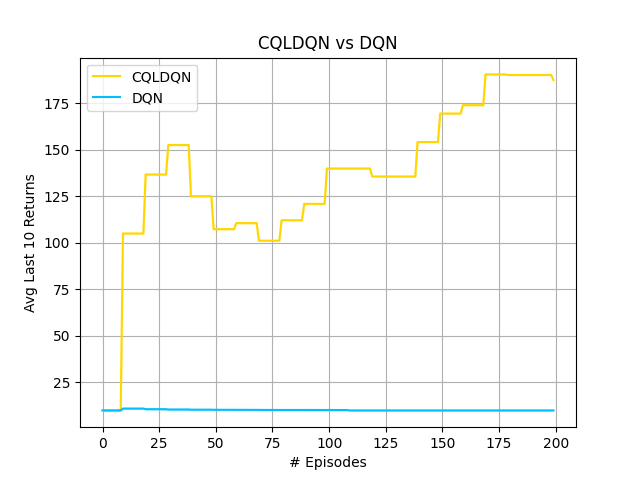
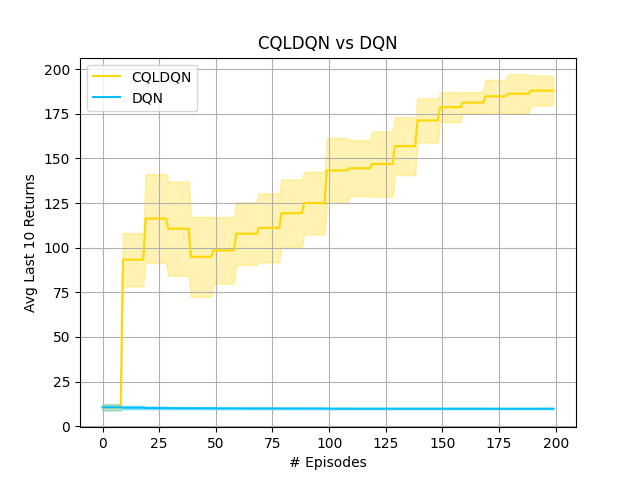
update cql and change value function update

diff --git a/a02/p2/REINFORCE_Baseline.py b/a02/p2/REINFORCE_Baseline.py
@@ -84,14 +84,13 @@ def policy(env, obs):
 # A = tensor of actions taken in episode/ batch of episodes
 # return = tensor where nth element is \sum^{T-n}_0 gamma^n * reward (return at step n of episode)
 def train(S,A,returns):
-    # Update value networks
-    for i in range(S.shape[0]):
-        value_loss = (V(S)[i] - returns[i]) ** 2
+    v_criterion = torch.nn.MSELoss()
+    for i in range(POLICY_TRAIN_ITERS):
+        # Update value networks
+        value_loss = v_criterion(V(S), returns.unsqueeze(1))
         value_optimizer.zero_grad()
         value_loss.backward()
         value_optimizer.step()
-        
-    for i in range(POLICY_TRAIN_ITERS):
         # Update policy networks
         logsoftmax = torch.nn.LogSoftmax(dim=-1)
         log_pis = logsoftmax(pi(S)).gather(1, A.view(-1, 1)).view(-1)

diff --git a/a02/p3/run.py b/a02/p3/run.py
@@ -138,8 +138,8 @@ def plot_curves(data, colors, labels, path='./results.png'):
 
 def main():
     config = set_config()
-    seeds = [1]
-    # seeds = [1, 2, 3, 4, 5]
+    # seeds = [1]
+    seeds = [1, 2, 3, 4, 5]
     algos = ['cqldqn', 'dqn']
     plot_data = []
     for algo in algos:
